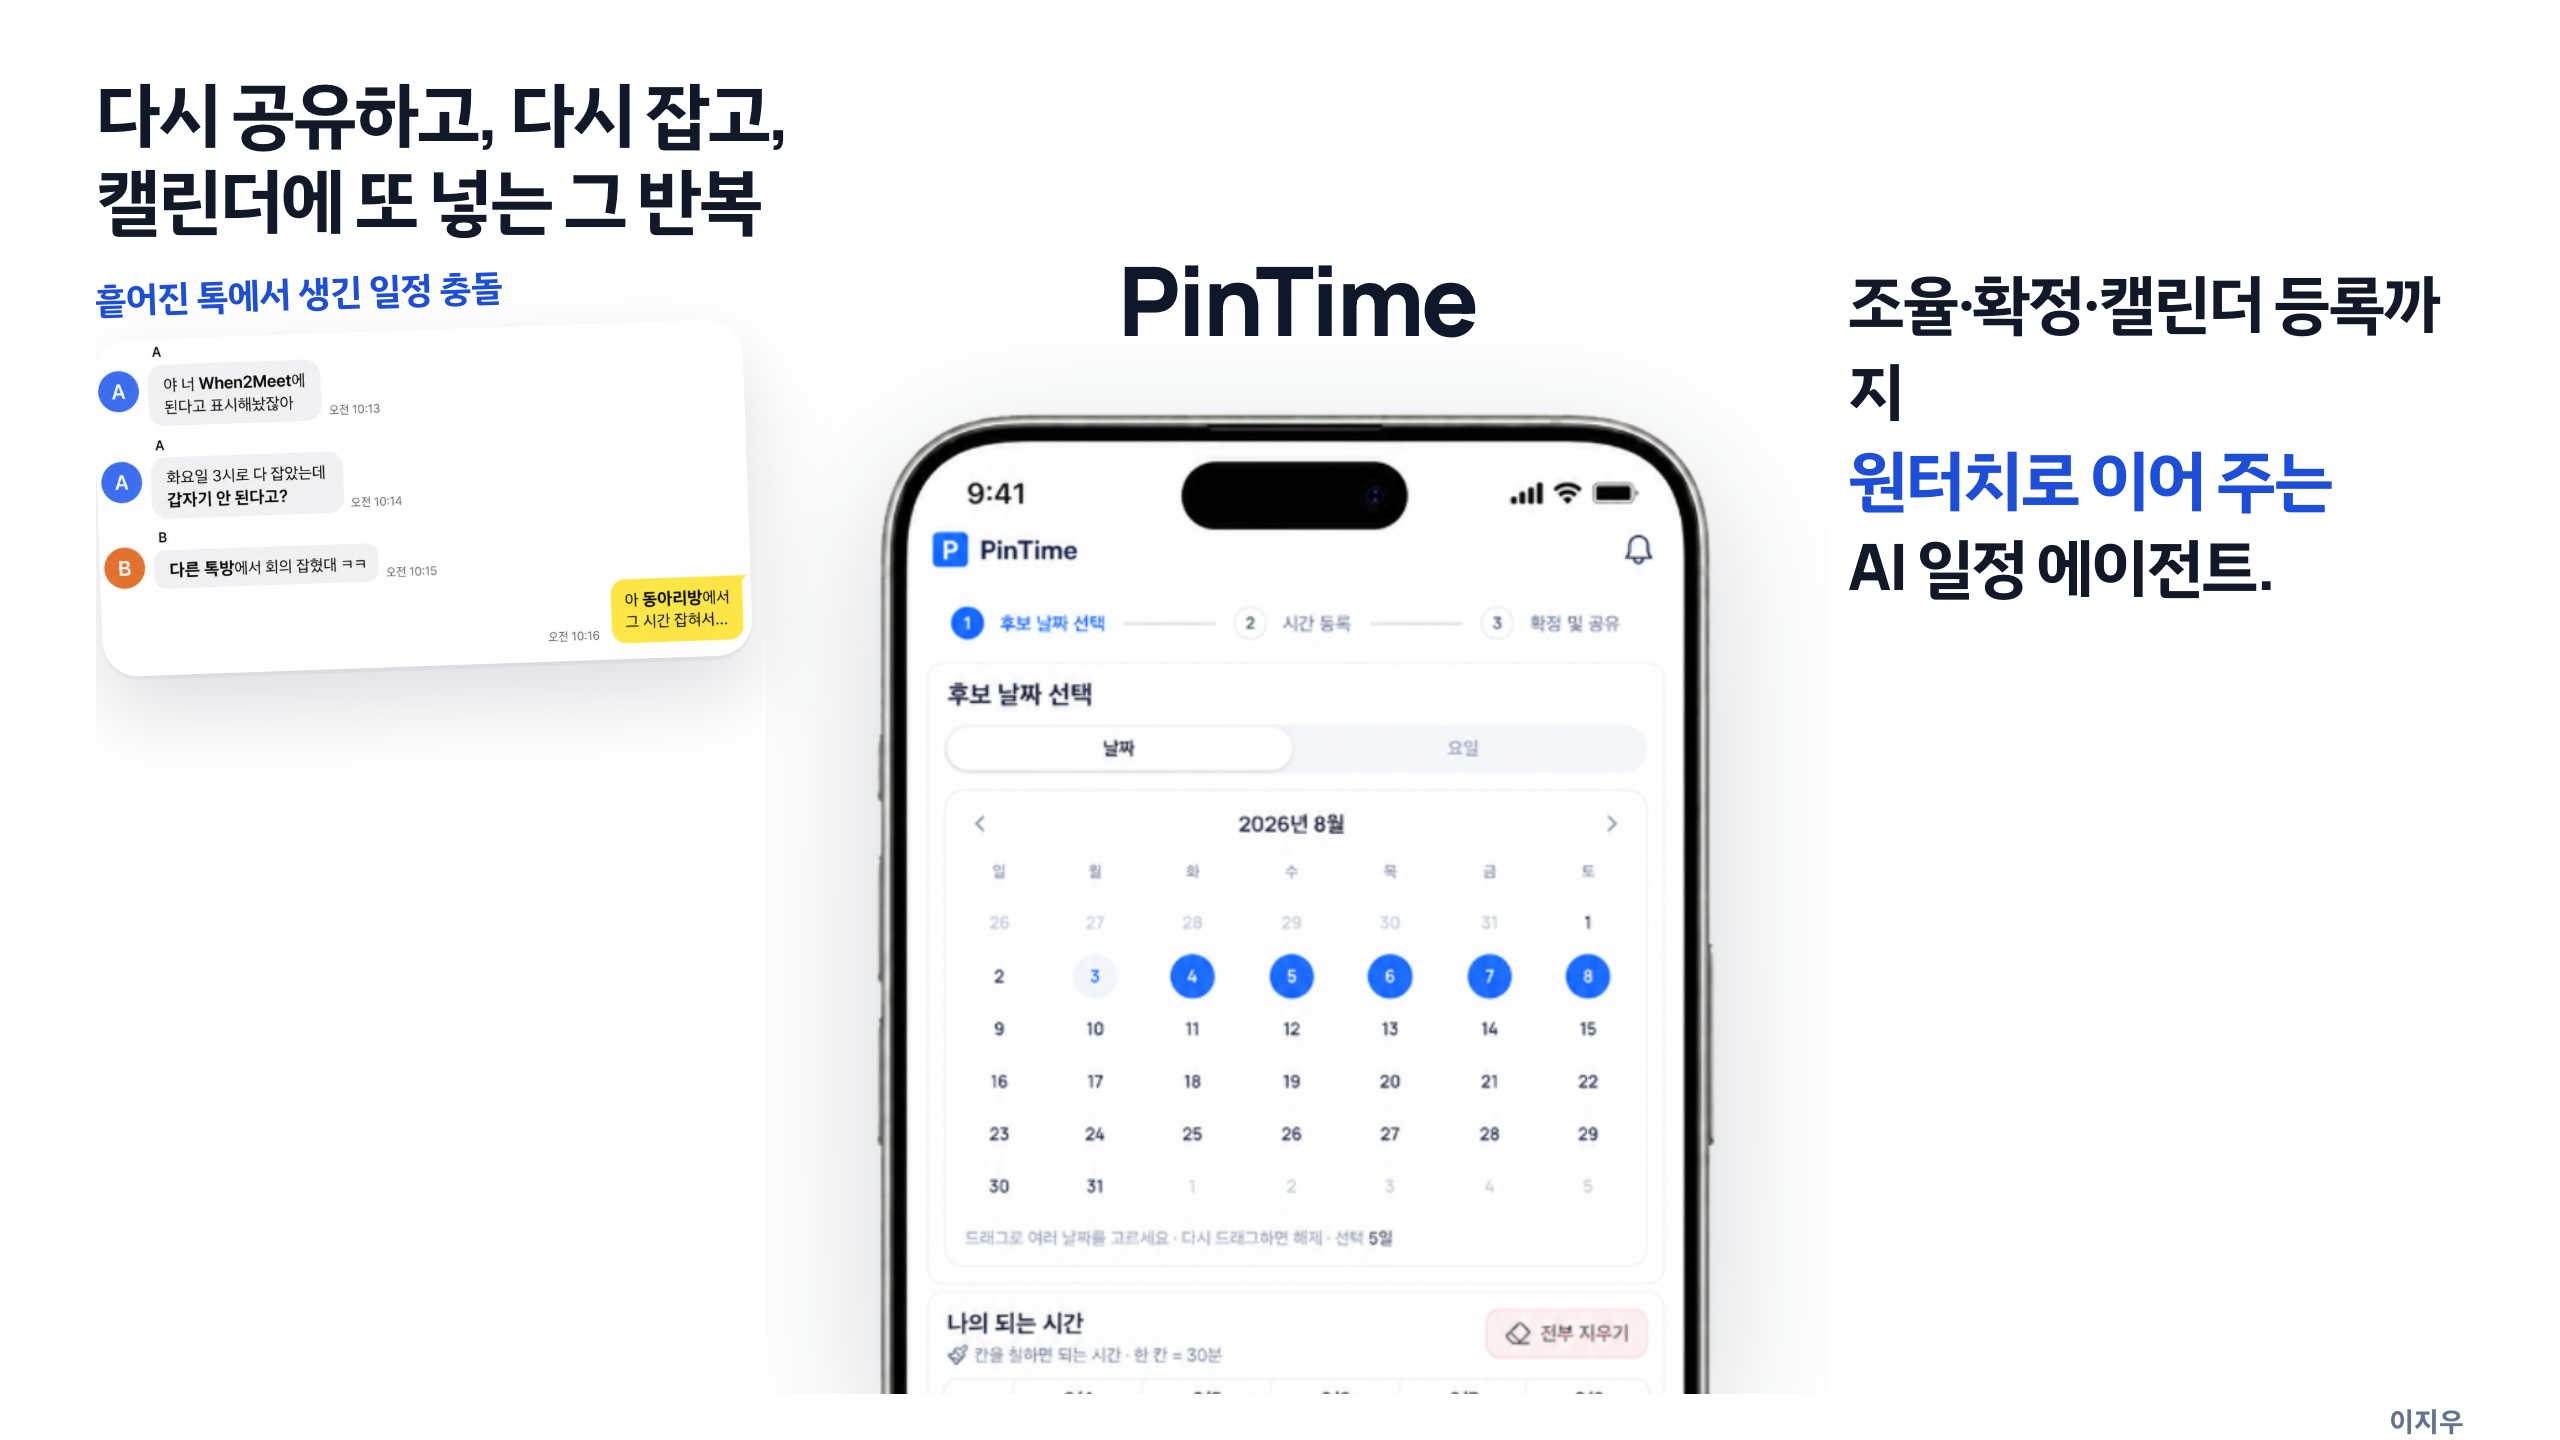
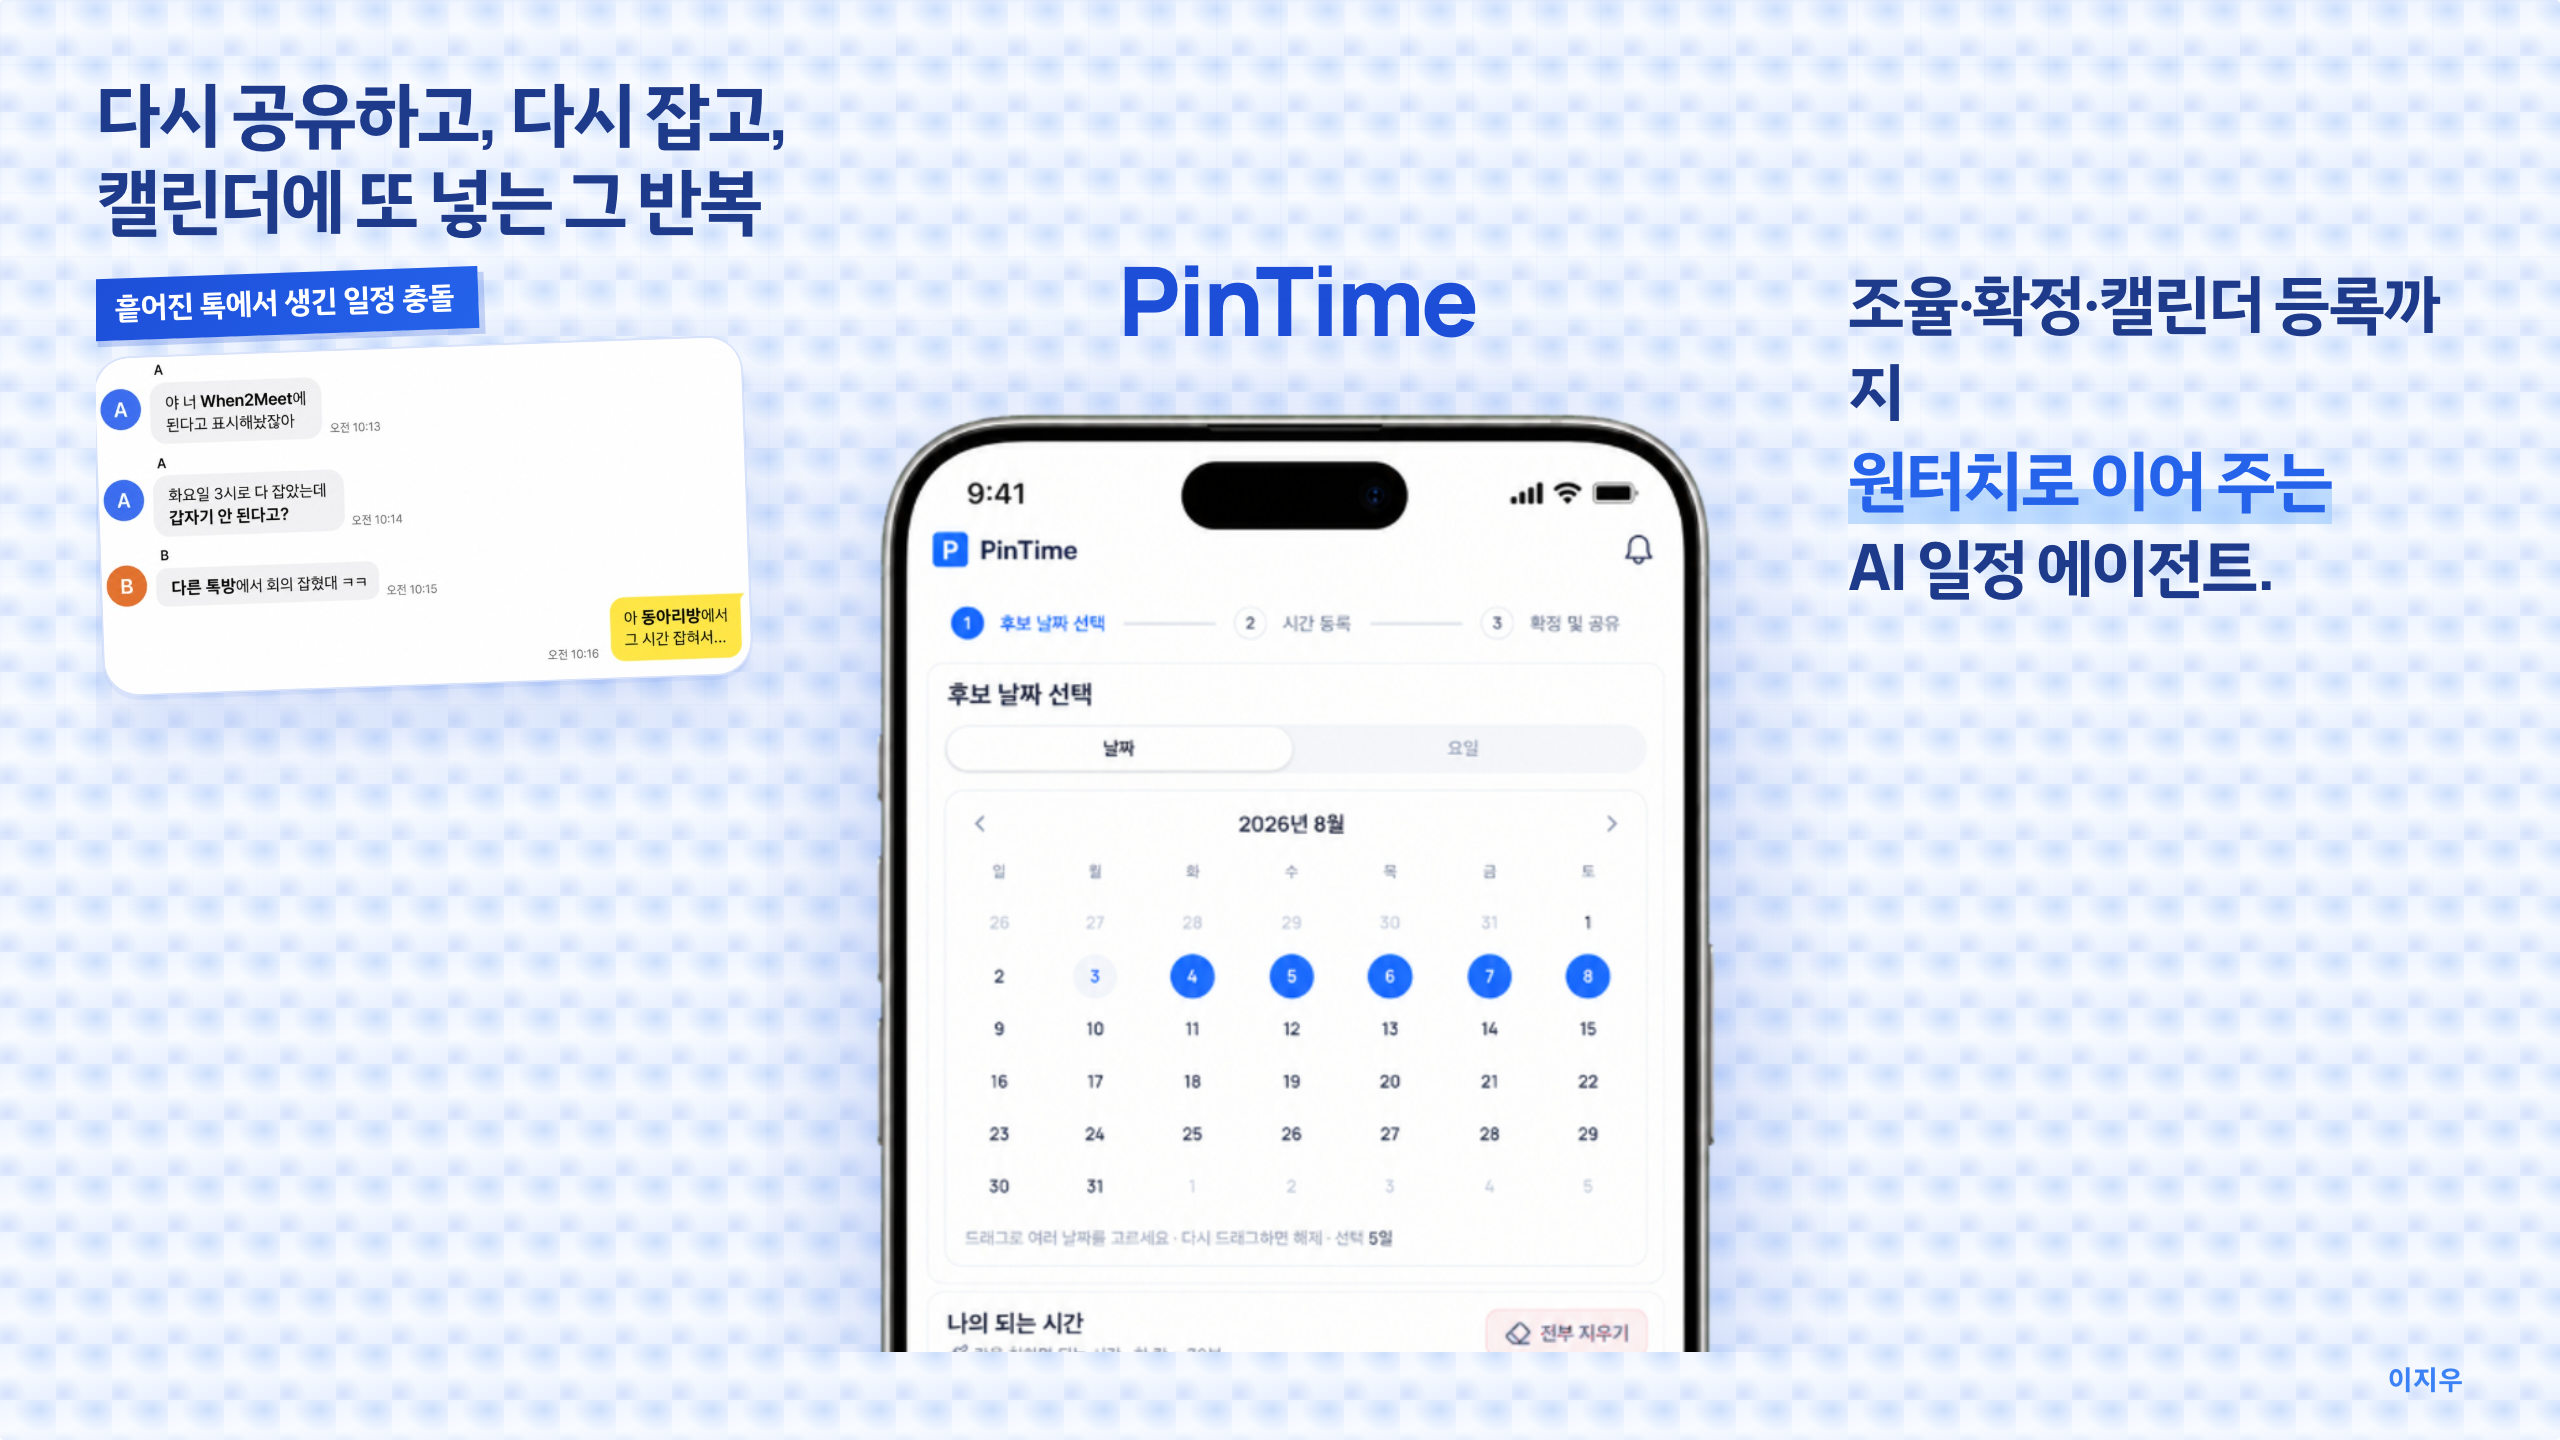
Restyle cover with a fintech blue atmosphere.

Changed region(s): [[0.0, 0.0, 1.0, 1.0]]

diff --git a/public/pitch.html b/public/pitch.html
@@ -1128,11 +1128,27 @@
         pointer-events: none;
       }
 
-      /* ===== COVER (흰 배경 · 폰 중심) ===== */
+      /* ===== COVER (핀테크 블루) ===== */
       .slide.cover {
-        background-color: #fff;
-        background-image: none;
-        color: #111827;
+        background-color: #f4f8ff;
+        background-image:
+          radial-gradient(ellipse 70% 55% at 72% 18%, rgba(59, 130, 246, 0.22), transparent 70%),
+          radial-gradient(ellipse 55% 50% at 12% 88%, rgba(37, 99, 235, 0.14), transparent 65%),
+          linear-gradient(160deg, #eef4ff 0%, #f8fbff 42%, #e8f0fe 100%);
+        color: var(--ink);
+      }
+
+      .slide.cover::before {
+        content: '';
+        position: absolute;
+        inset: 0;
+        background-image:
+          linear-gradient(rgba(37, 99, 235, 0.045) 1px, transparent 1px),
+          linear-gradient(90deg, rgba(37, 99, 235, 0.045) 1px, transparent 1px);
+        background-size: 32px 32px;
+        mask-image: linear-gradient(180deg, rgba(0, 0, 0, 0.55), transparent 85%);
+        pointer-events: none;
+        z-index: 0;
       }
 
       .cover .slide-inner {
@@ -1142,6 +1158,8 @@
         gap: 0;
         overflow: hidden;
         min-height: 0;
+        position: relative;
+        z-index: 1;
       }
 
       .cover-problem {
@@ -1152,7 +1170,7 @@
         font-weight: 800;
         letter-spacing: -0.035em;
         line-height: 1.22;
-        color: #111827;
+        color: #1e3a8a;
       }
 
       .cover-stage {
@@ -1176,21 +1194,26 @@
       }
 
       .cover-chat-wrap .chat-label {
-        font-size: 18px;
+        display: inline-block;
+        align-self: flex-start;
+        font-size: 15px;
         font-weight: 800;
-        color: var(--blue);
+        color: #fff;
         letter-spacing: -0.02em;
-        padding-left: 2px;
         line-height: 1.25;
+        padding: 6px 12px;
+        background: linear-gradient(135deg, #1d4ed8, #2563eb);
+        box-shadow: 3px 3px 0 rgba(29, 78, 216, 0.22);
       }
 
       .cover-chat {
         width: 100%;
         border-radius: 18px;
         overflow: hidden;
+        border: 1.5px solid rgba(37, 99, 235, 0.18);
         box-shadow:
-          0 18px 40px rgba(15, 23, 42, 0.14),
-          0 2px 0 rgba(15, 23, 42, 0.04);
+          0 18px 40px rgba(29, 78, 216, 0.16),
+          0 2px 0 rgba(29, 78, 216, 0.06);
         background: #fff;
       }
 
@@ -1216,7 +1239,7 @@
         font-weight: 800;
         font-size: 48px;
         letter-spacing: -0.03em;
-        color: #0f172a;
+        color: #1d4ed8;
         line-height: 1;
         margin-bottom: 2px;
         flex-shrink: 0;
@@ -1224,7 +1247,7 @@
 
       .cover-phone {
         width: min(100%, 5.6in);
-        filter: drop-shadow(0 22px 36px rgba(15, 23, 42, 0.18));
+        filter: drop-shadow(0 24px 40px rgba(29, 78, 216, 0.28));
         flex: 1 1 auto;
         min-height: 0;
         overflow: hidden;
@@ -1246,13 +1269,14 @@
         font-weight: 800;
         letter-spacing: -0.035em;
         line-height: 1.35;
-        color: #111827;
+        color: #1e3a8a;
         transform: translateY(4px);
       }
 
       .cover-tagline .ai {
-        color: var(--blue);
+        color: #2563eb;
         font-size: 1.05em;
+        background: linear-gradient(180deg, transparent 62%, rgba(147, 197, 253, 0.55) 62%);
       }
 
       .cover-foot {
@@ -1260,14 +1284,15 @@
         justify-content: flex-end;
         align-items: center;
         margin-top: 4px;
+        padding: 0 0 0.22in;
       }
 
       .cover-foot .name {
         font-family: Manrope, sans-serif;
         font-weight: 800;
         font-size: 14px;
-        color: #64748b;
-        letter-spacing: 0.02em;
+        color: #3b82f6;
+        letter-spacing: 0.04em;
       }
 
       /* ===== 카카오톡 UI (유지) ===== */
